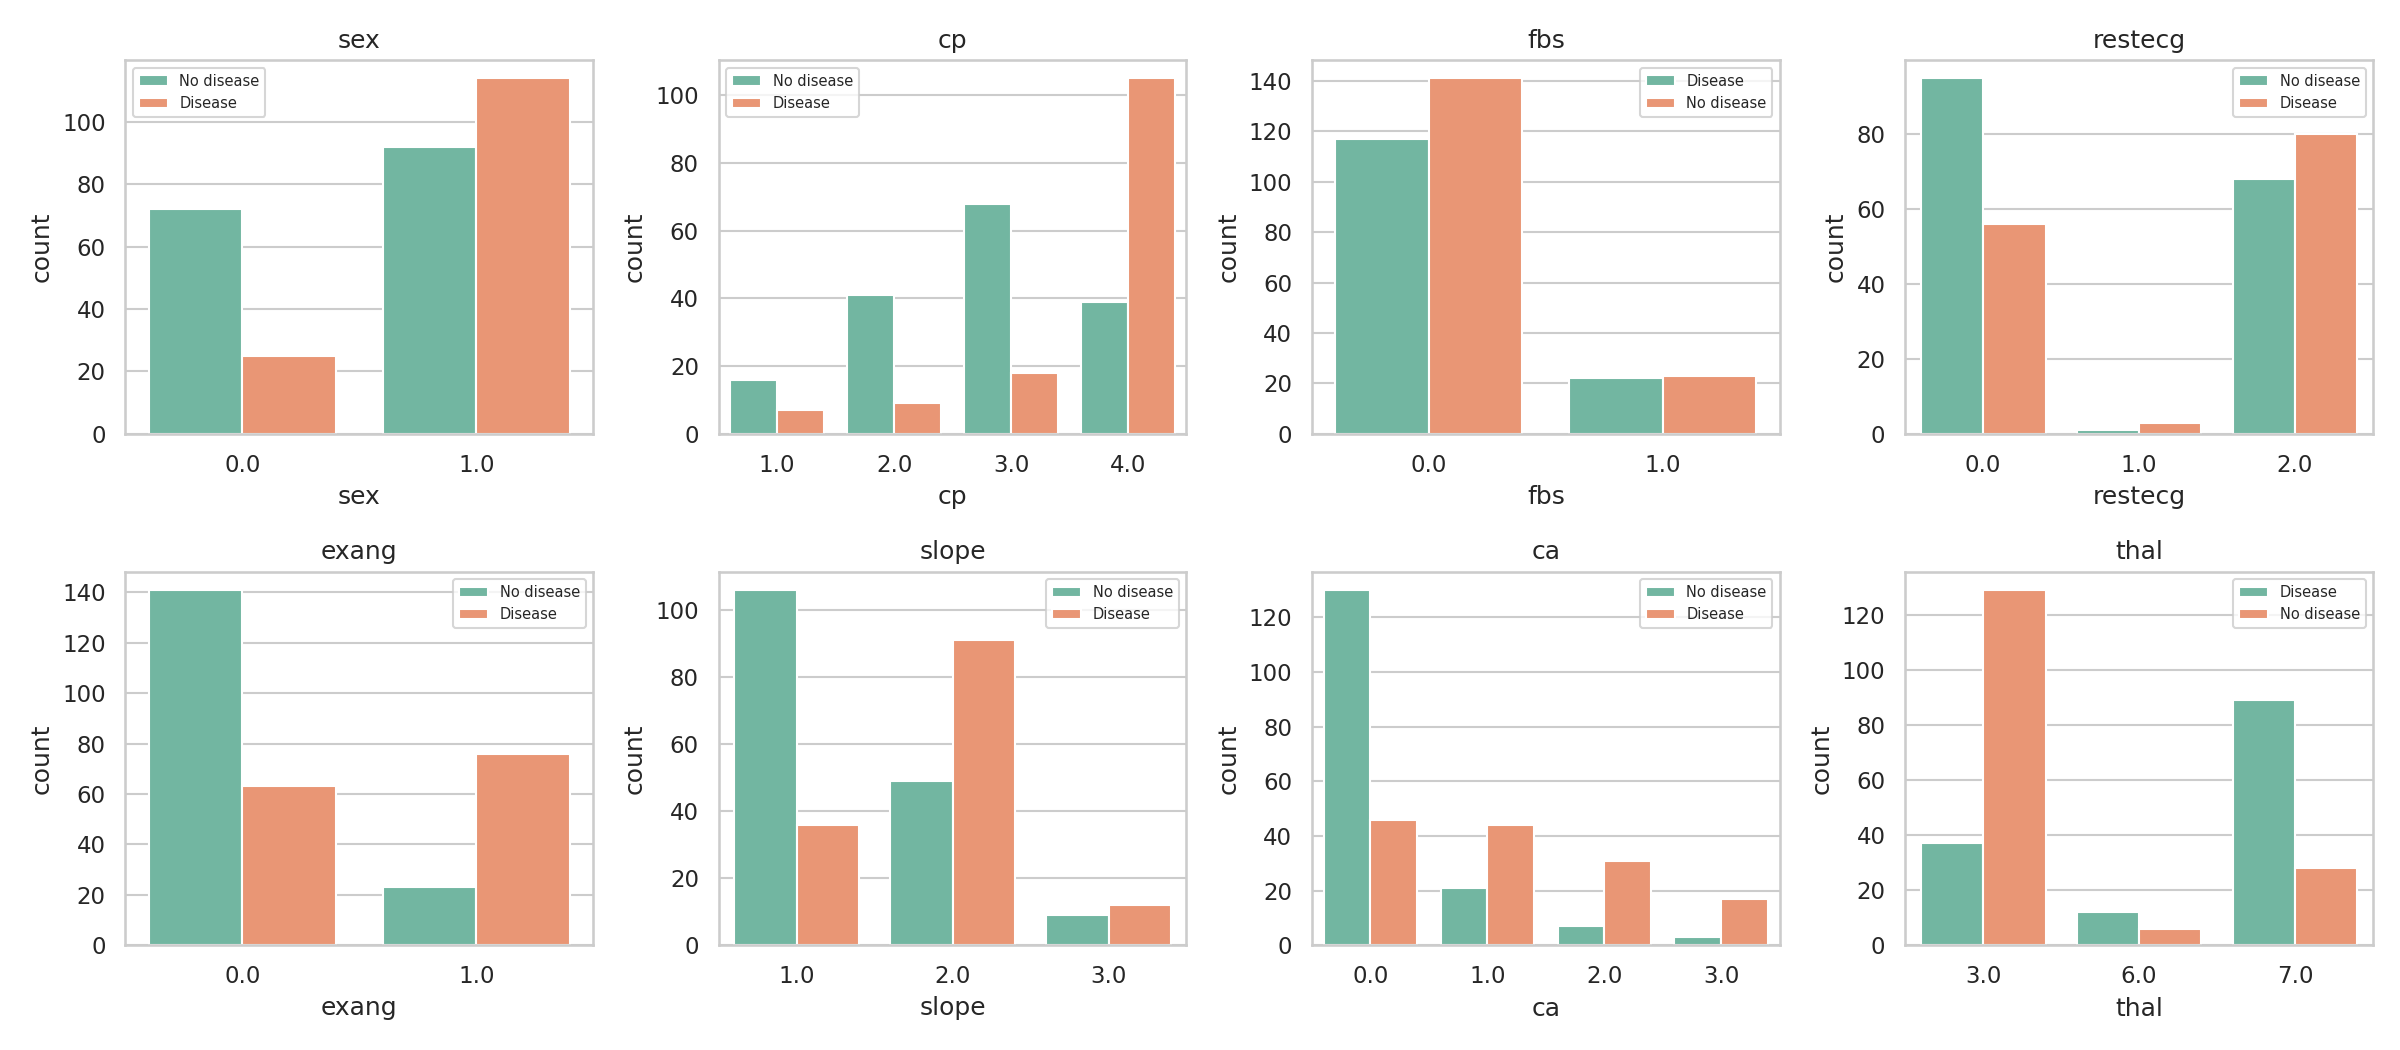
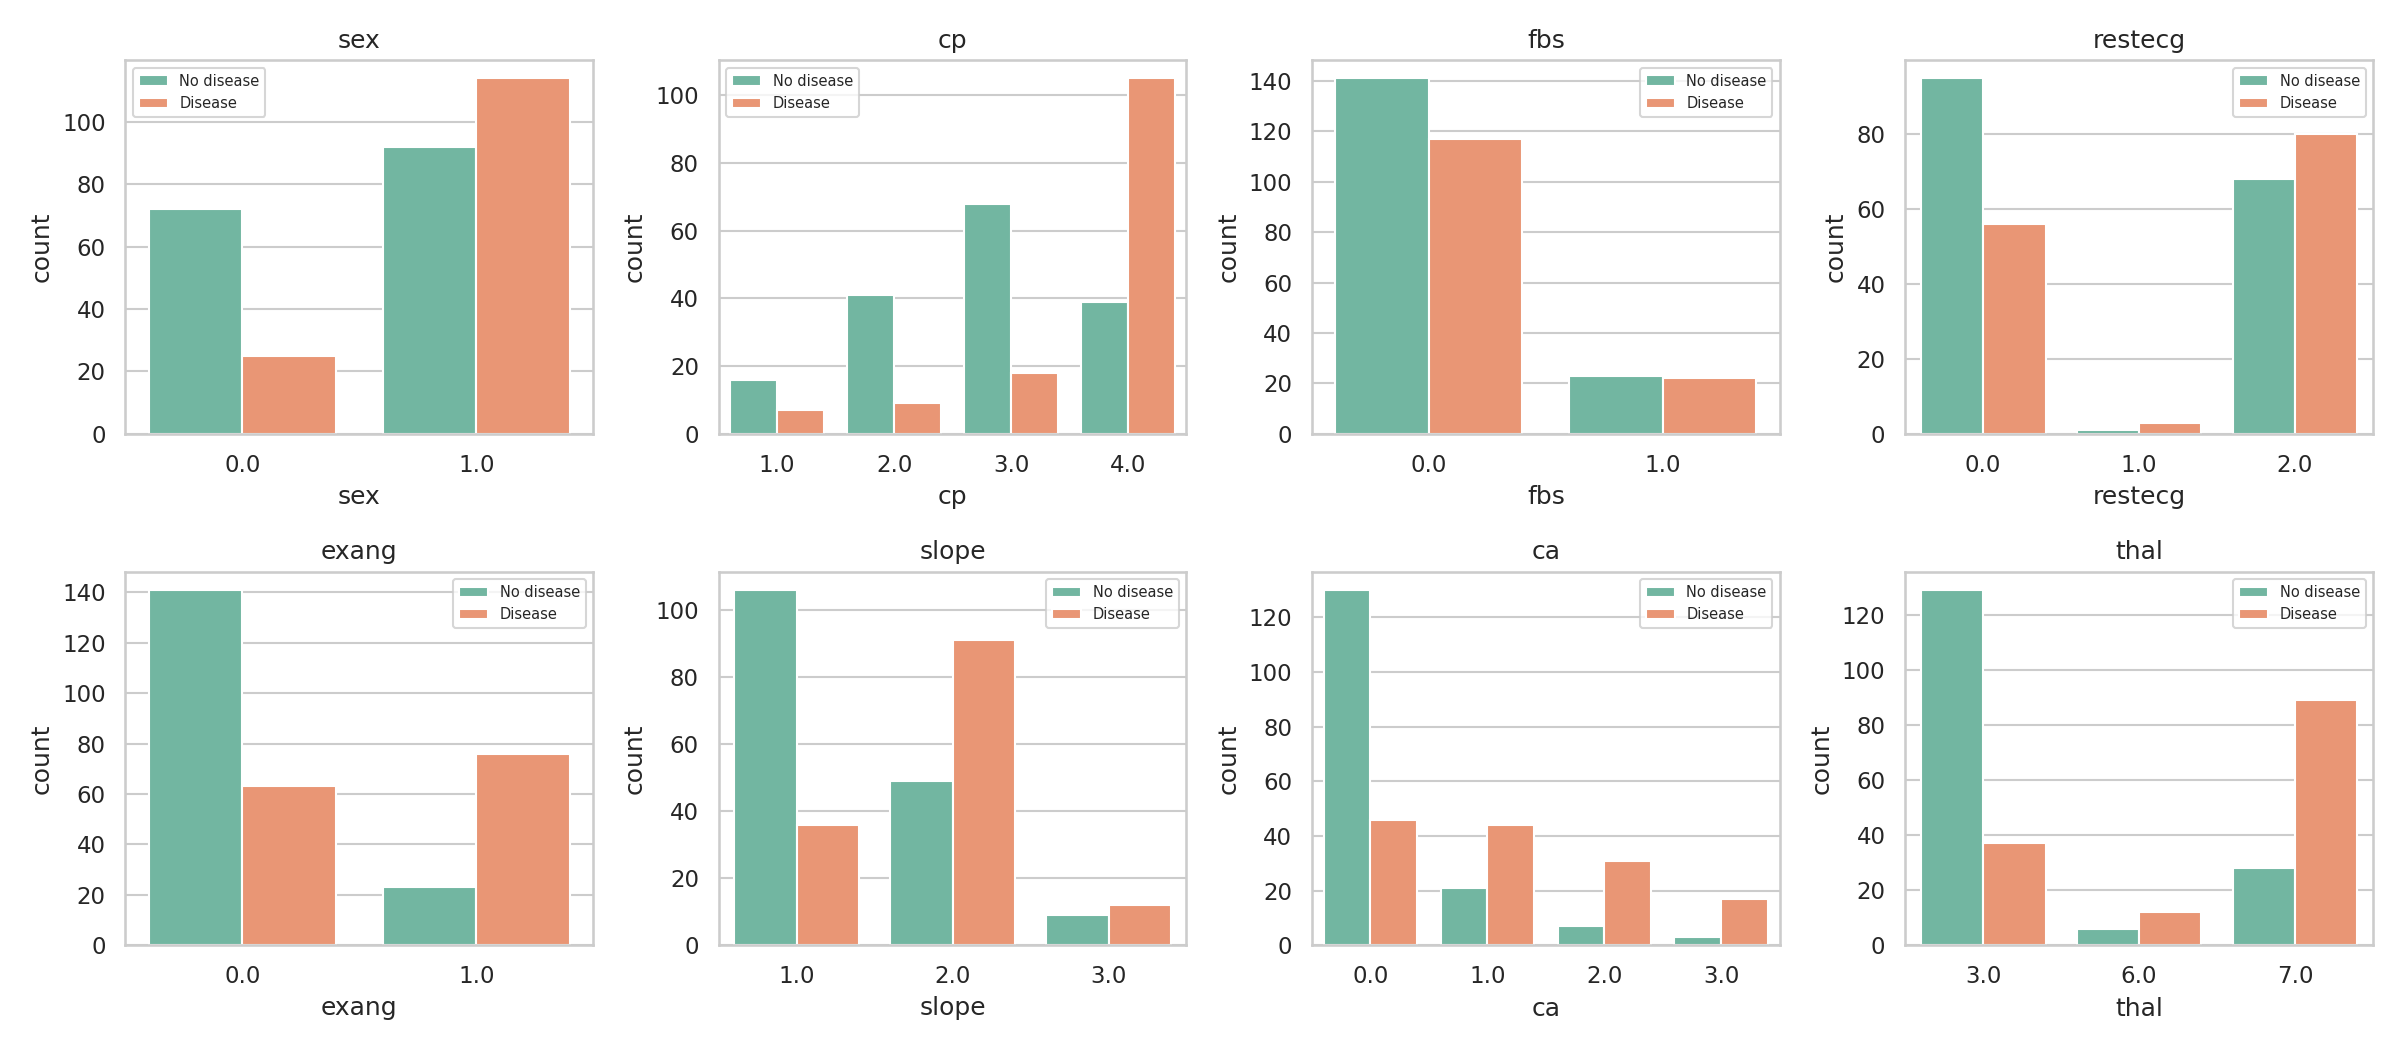
final changes

diff --git a/src/eda.py b/src/eda.py
@@ -10,6 +10,8 @@ from src.config import (CATEGORICAL_FEATURES, CLEAN_PATH, FIG_DIR, NUMERIC_FEATU
                         REPORT_DIR, TARGET)
 
 LABELS = {0: "No disease", 1: "Disease"}
+ORDER = ["No disease", "Disease"]
+PALETTE = {"No disease": "#66c2a5", "Disease": "#fc8d62"}
 
 
 def _save(fig, name):
@@ -61,8 +63,10 @@ def boxplots(df):
 
 def categorical_counts(df):
     fig, axes = plt.subplots(2, 4, figsize=(16, 7))
+    labels = df[TARGET].map(LABELS)
     for ax, col in zip(axes.ravel(), CATEGORICAL_FEATURES):
-        sns.countplot(data=df, x=col, hue=df[TARGET].map(LABELS), ax=ax)
+        sns.countplot(data=df, x=col, hue=labels, hue_order=["No disease", "Disease"],
+                      palette={"No disease": "#66c2a5", "Disease": "#fc8d62"}, ax=ax)
         ax.set_title(col)
         ax.legend(fontsize=7)
     _save(fig, "05_categorical_counts_by_target.png")
